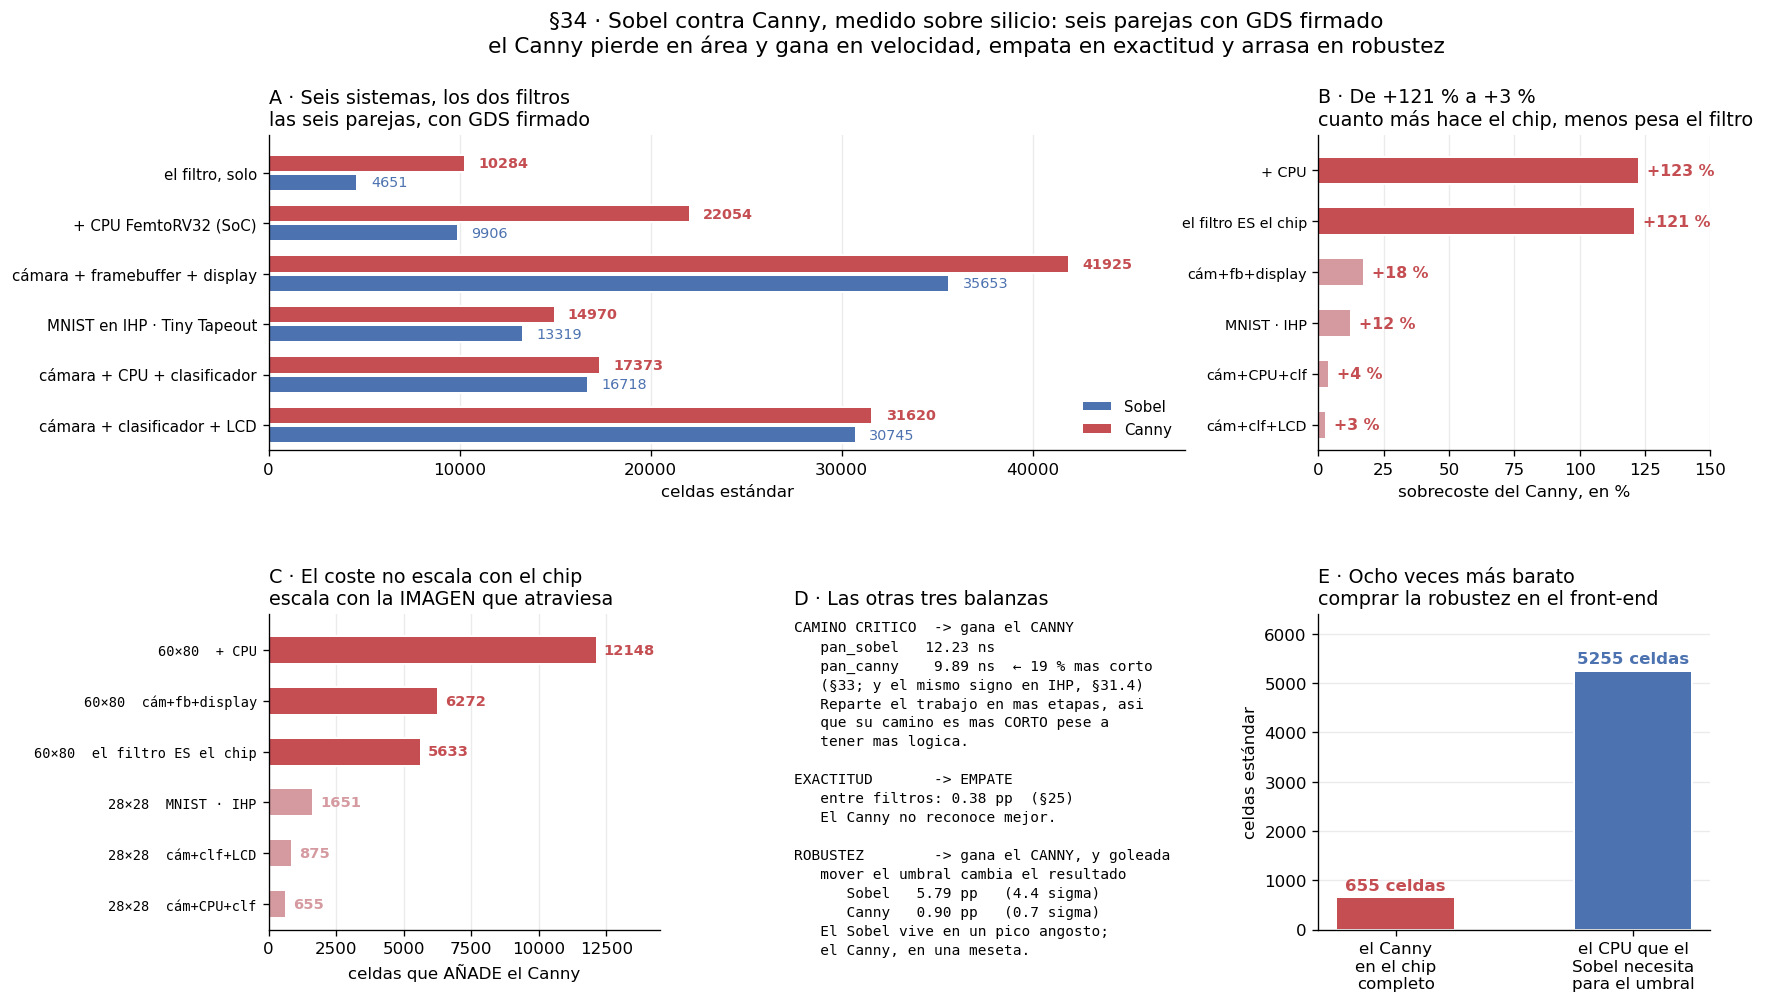
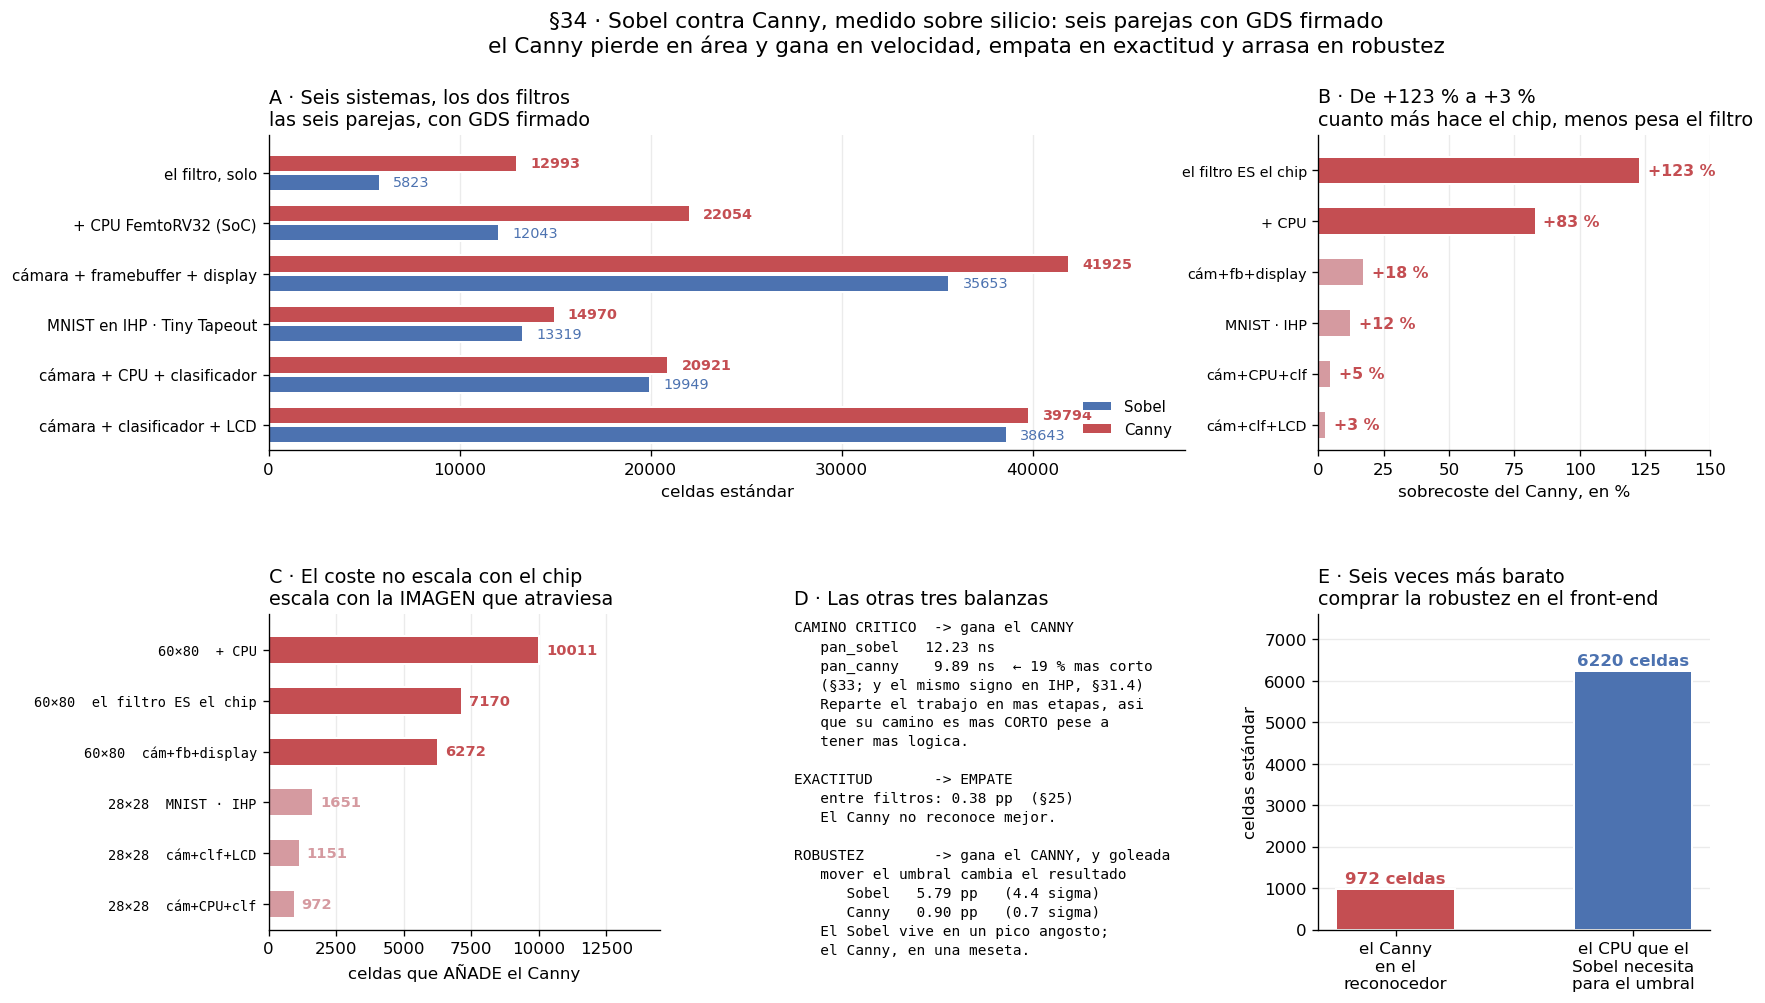
tesis: regenerar la figura del balance, y el rango era 123-3 y no 123-5
FIGURA. asic/balance/fig_sobel_vs_canny.py pasa al recuento homogeneo
post-emplazamiento: el filtro solo 4651/10284 -> 5823/12993, +CPU
9906/22054 -> 12043/22054, cam+CPU+clf 16718/17373 -> 19949/20921,
cam+clf+LCD 30745/31620 -> 38643/39794. Panel E, de 655 vs 5255 a 972 vs
6220, y de "ocho veces" a "seis veces". Copia de seguridad del generador
en .bak_21sep.

El hallazgo del panel C sale MAS limpio con las cifras buenas: los que
recorren 60x80 pagan de 6 272 a 10 011 celdas y los que solo miran la
ventana de 28x28 pagan de 972 a 1 651. Antes los dos grupos casi se
tocaban; ahora no se solapan.

Y AL REGENERARLA APARECIO UN ERROR MIO DE AYER. Al corregir el rango del
sobrecoste puse "del 123 % al 5 %", que sale de los cuatro niveles de la
5.6.8. Pero hay un quinto mas barato -- el reconocedor que ademas dibuja
en pantalla, vision_*_mnist, +3 % -- que la tabla no listaba. El rango
real es de +123 % a +3 %, que es justo lo que decia el borrador viejo.
Estreche el rango al corregirlo. Anadida la quinta fila a la 5.6.8 y
corregido el rango en el texto y en la portada.

TINY TAPEOUT: NO SON SIETE, SON NUEVE. La figura del cuaderno se titula
"los 7 chips de esta tesis en Tiny Tapeout" y deja fuera
tt_mnist_sobel_vic y tt_mnist_canny_vic, que tambien son proyectos de
Tiny Tapeout -- en IHP SG13G2, lanza IHP26b -- y ademas son dos de los
dieciseis archivados. Confirmado en github.com/VictorMartinez89: hay
nueve repositorios tt_*_vic, uno por proyecto. Queda anotado en
[…]

diff --git a/tesis/cap6_discusion.md b/tesis/cap6_discusion.md
@@ -20,7 +20,10 @@ la imagen aplicando una ventana de 3×3 y comparando contra un umbral. Si el cos
 a la complejidad aritmética, los tres deberían costar aproximadamente lo mismo. La §5.4.3 midió lo
 contrario:
 
-$$\text{Sobel} \xrightarrow{\;+5\,851\;} \text{Canny de un salto} \xrightarrow{\;+94\,511\;} \text{Canny transitivo}$$
+| desde | hasta | cuesta |
+|---|---|---:|
+| Sobel | Canny de un salto | **+5 851 celdas** |
+| Canny de un salto | Canny transitivo | **+94 511 celdas** |
 
 Ampliar el alcance de la ventana en un salto cuesta menos de seis mil celdas. Ampliarlo al cuadro
 completo cuesta **noventa y cuatro mil quinientas once**. Y la causa no está en las operaciones sino
@@ -138,7 +141,10 @@ para eso está el procesador con su periférico. Un Canny insensible no lo neces
 
 Poniendo precio a las dos soluciones sobre el mismo silicio:
 
-$$\underbrace{972 \text{ celdas}}_{\text{el Canny, en el reconocedor}} \qquad\text{frente a}\qquad \underbrace{6\,220 \text{ celdas}}_{\text{el procesador y su periferia}}$$
+| lo que se compra | dónde | cuesta |
+|---|---|---:|
+| robustez al umbral **en el front-end** | el Canny, en el reconocedor | **972 celdas** |
+| robustez al umbral **por software** | el procesador y su periferia | **6 220 celdas** |
 
 **Comprar robustez en el front-end resulta unas seis veces más barato que comprarla con un
 procesador.** Los dos caminos resuelven el mismo problema —que el punto de operación correcto depende

diff --git a/tesis/maqueta/00_portada.md b/tesis/maqueta/00_portada.md
@@ -32,7 +32,7 @@ sola discrepancia, y el sistema completo —procesador, front-end Canny y clasif
 de cada diez dígitos manuscritos captados por la cámara sobre la FPGA física, coincidiendo con lo que
 la simulación predecía.
 
-Las mediciones muestran que el sobrecoste en área del Canny frente al Sobel cae del 123 % al 5 %
+Las mediciones muestran que el sobrecoste en área del Canny frente al Sobel cae del 123 % al 3 %
 según cuánto más haga el circuito, y que comprar robustez al umbral en el front-end cuesta unas seis
 veces menos que comprarla con un procesador. Una verificación eléctrica del camino crítico en SPICE
 atribuye la discrepancia con el analizador estático a los parásitos internos de la celda y no a la
@@ -62,7 +62,7 @@ discrepancy, and the complete system —processor, Canny front-end and classifie
 of ten handwritten digits captured by the camera on the physical FPGA, matching what simulation had
 predicted.
 
-Measurements show that the Canny's area overhead against the Sobel falls from 123 % to 5 % depending
+Measurements show that the Canny's area overhead against the Sobel falls from 123 % to 3 % depending
 on how much more the circuit does, and that buying threshold robustness in the front-end costs about
 six times less than buying it with a processor. An electrical verification of the critical path in
 SPICE attributes the discrepancy with the static timing analyser to the cell's internal parasitics

diff --git a/tesis/cap5_seccion6.md b/tesis/cap5_seccion6.md
@@ -224,11 +224,13 @@ directamente comparables entre sí:
 | filtro aislado | 5 823 | 12 993 | **2.23×** |
 | con procesador | 12 043 | 22 054 | 1.83× |
 | sistema de visión completo | 35 653 | 41 925 | 1.18× |
-| **reconocedor** | **19 949** | **20 921** | **1.05×** |
+| reconocedor con procesador | 19 949 | 20 921 | 1.05× |
+| **reconocedor que además muestra** | **38 643** | **39 794** | **1.03×** |
 
 **El sobrecosto del Canny se diluye conforme crece el sistema que lo rodea.** Considerado de forma
 aislada cuesta un **123 %** más; con un procesador al lado, un 83 %; dentro de un sistema de visión,
-un 18 %; e integrado en un reconocedor, un **5 %**. El motivo es que el clasificador
+un 18 %; integrado en un reconocedor, un 5 %; y en un reconocedor que además dibuja en pantalla,
+un **3 %**. El motivo es que el clasificador
 —histograma, pirámide y 400 multiplicaciones— es idéntico en ambas variantes y domina el área,
 mientras que la diferencia se reduce al tercer *line-buffer*.
 
